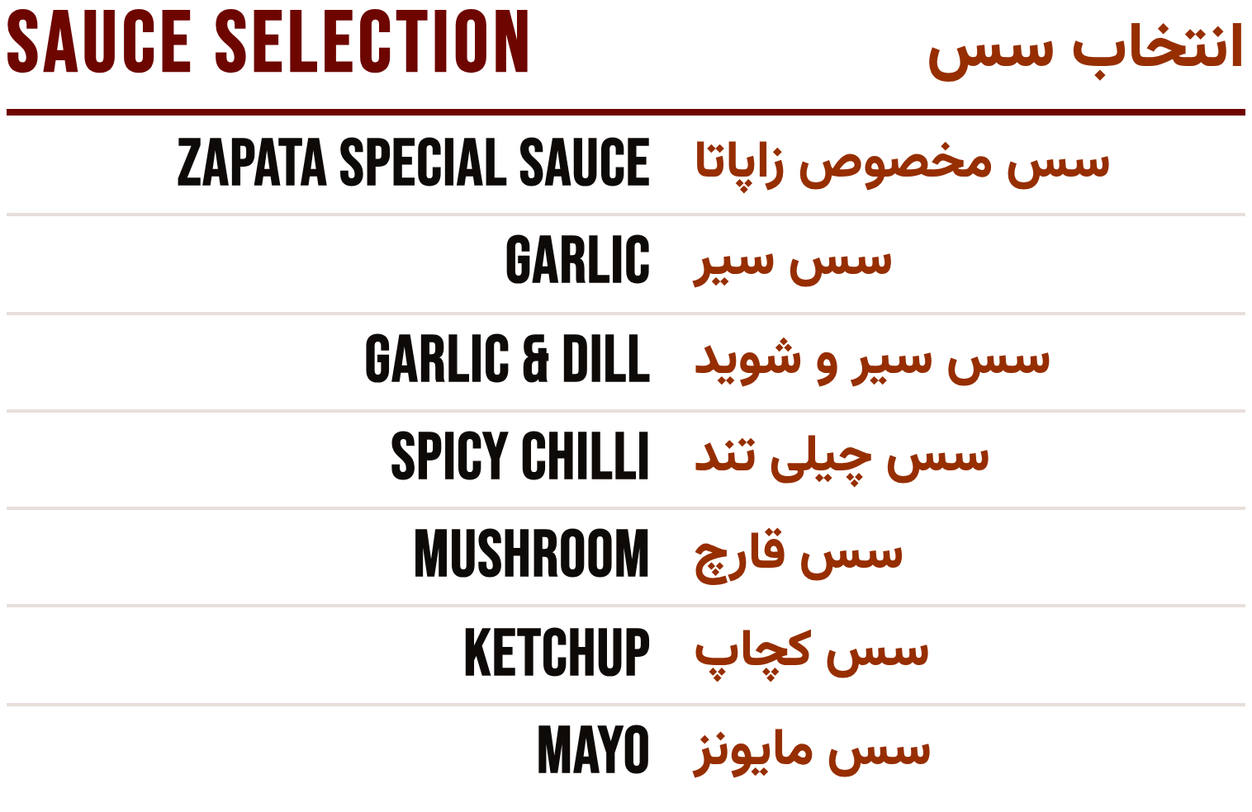
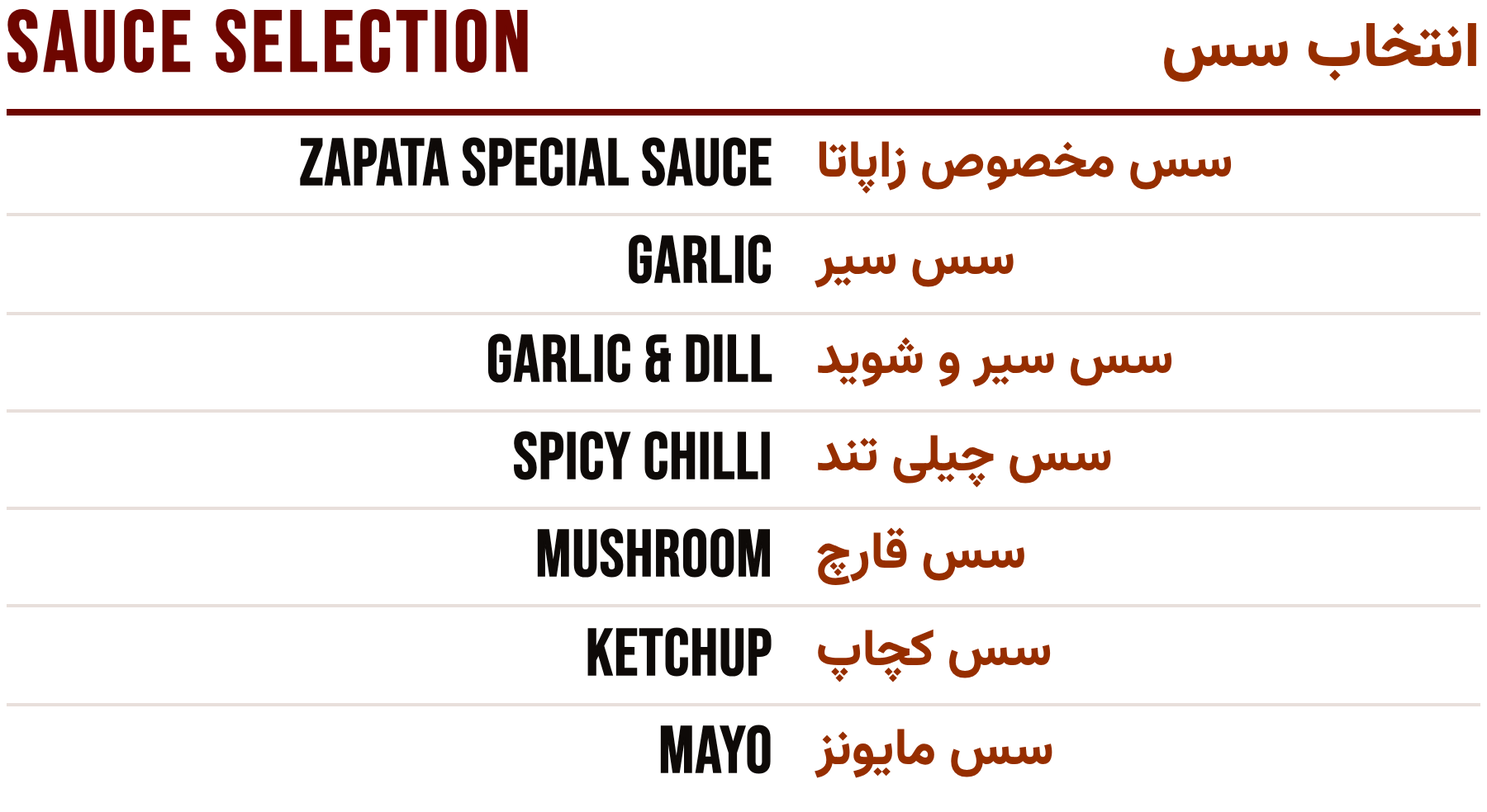
New order across the TVs; bigger heading pictures; allergy notice at the end, Persian last
Mama and Ryan, 24 Nov 2026: "the graphics are small, fix them, make them nice"; "swap the sauce
and drinks"; "sandwiches on the second line after starters"; "sauces on the right above the food
allergy"; "drinks at the end"; "the Persian of the food allergy last".

- Left TV: Starters over Sandwiches, Burgers over Drinks (text 0.768, unchanged). Right TV: Doner,
  Platters, Shawarma; Hot Dogs over Sauces, then the allergy notice at the end (text 0.945, up from
  0.923). Starters and Sauces panels drawn at their new columns' widths.
- The heading pictures fill the room from the heading line to just over their panel's top edge
  (never over menu text), with a white sticker edge and soft shadow, and pop in and out with a
  little bounce inside their gap.
- The allergy notice: English title and sentence, then the Persian title and sentence last.
- Pictures re-made; check.cjs: all 30 pass.

Claude-Session: https://claude.ai/code/session_01GCEwpkaJNHhH9V3b9SNYoX

diff --git a/site/monitor-1/deco.css b/site/monitor-1/deco.css
@@ -6,20 +6,24 @@
 .note { display: none; }
 html.half-1 .note, html.half-2 .note { position: absolute; z-index: 1; flex-direction: column; justify-content: center;
   padding: .8vh 1.6vh; color: var(--ink); text-align: left; }
-.note .nt { display: flex; justify-content: space-between; align-items: baseline; gap: 1vh; position: relative; }
+.note .nt { display: flex; justify-content: flex-start; align-items: baseline; position: relative; }
+.note .nt.fa { justify-content: flex-end; margin-top: .5vh; }
 .note .nt b { font: 800 2.1vh/1.1 "Barlow Semi Condensed", "Arial Narrow", sans-serif; color: #8a0c00; letter-spacing: .02em; white-space: nowrap; }
 .note .nt b[lang="fa"] { font: 800 1.9vh/1.2 Vazirmatn, Tahoma, sans-serif; }
 .note p { position: relative; margin: .35vh 0 0; font: 600 1.25vh/1.25 "Barlow Semi Condensed", "Arial Narrow", sans-serif; color: #3c2414; }
 .note p[lang="fa"] { font: 600 1.2vh/1.45 Vazirmatn, Tahoma, sans-serif; text-align: right; }
 
 .deco { position: absolute; z-index: 2; pointer-events: none; }
-.deco .pic { position: absolute; inset: 0; display: flex; align-items: flex-end; justify-content: center; opacity: 0; }
+.deco .pic { position: absolute; inset: 0; display: flex; align-items: flex-end; justify-content: center; opacity: 0; transform-origin: 50% 100%; }
 .deco .pic.only { opacity: 1; }
 .deco .bob { height: 100%; width: 100%; display: flex; align-items: flex-end; justify-content: center; animation: deco-bob 3s ease-in-out infinite; }
-.deco img { max-width: 100%; max-height: 100%; object-fit: contain; filter: drop-shadow(0 .35vh .4vh rgba(90, 20, 0, .35)); }
+/* a sticker: a thin white edge and a soft shadow, like the food photos on the big chains' boards */
+.deco img { max-width: 100%; max-height: 100%; object-fit: contain;
+  filter: drop-shadow(0 0 .16vh #fff) drop-shadow(0 0 .16vh #fff) drop-shadow(0 .45vh .5vh rgba(90, 20, 0, .4)); }
 .deco img.framed { border-radius: .8vh; }
-.deco svg { height: 100%; width: auto; overflow: visible; transform-origin: 50% 100%; animation: deco-flick 2s ease-in-out infinite; }
-@keyframes deco-bob { 0%, 100% { transform: translateY(0) rotate(0deg); } 50% { transform: translateY(-6%) rotate(-1.5deg); } }
+.deco svg { height: 100%; width: auto; overflow: visible; transform-origin: 50% 100%; animation: deco-flick 2s ease-in-out infinite;
+  filter: drop-shadow(0 0 .7vh rgba(255, 170, 0, .75)); }
+@keyframes deco-bob { 0%, 100% { transform: translateY(0) rotate(0deg); } 50% { transform: translateY(-3%) rotate(-1.5deg); } }
 @keyframes deco-flick { 0%, 100% { transform: scale(1, 1) skewX(0deg); } 25% { transform: scale(.96, 1.08) skewX(-3deg); }
   50% { transform: scale(1.03, .95) skewX(2deg); } 75% { transform: scale(.98, 1.05) skewX(-1deg); } }
 

diff --git a/site/monitor-1/halves.css b/site/monitor-1/halves.css
@@ -1,23 +1,22 @@
 /* Made by tools/make-sections.py: do not edit by hand. The two halves of the menu, one per shop TV, still. */
-/* half 1: text scale 0.769 */
-html.half-1 .sec-drinks { display: none; }
+/* half 1: text scale 0.768 */
+html.half-1 .sec-sauces { display: none; }
 html.half-1 .sec-doner { display: none; }
 html.half-1 .sec-platters { display: none; }
 html.half-1 .sec-shawarma { display: none; }
 html.half-1 .sec-hotdogs { display: none; }
-html.half-1 .sec-starters { left: 0.729%; top: 1.111%; width: 42.232%; height: 48.903%; }
-html.half-1 .sec-sauces { left: 0.729%; top: 51.125%; width: 42.232%; height: 36.802%; }
-html.half-1 .note { display: flex; left: 0.729%; top: 89.038%; width: 42.232%; height: 9.851%; }
-html.half-1 .sec-sandwiches { left: 43.586%; top: 1.111%; width: 55.685%; height: 47.835%; }
-html.half-1 .sec-burgers { left: 43.586%; top: 50.057%; width: 55.685%; height: 48.832%; }
-/* half 2: text scale 0.923 */
+html.half-1 .sec-starters { left: 0.729%; top: 1.111%; width: 48.958%; height: 48.867%; }
+html.half-1 .sec-sandwiches { left: 0.729%; top: 51.089%; width: 48.958%; height: 47.800%; }
+html.half-1 .sec-burgers { left: 50.313%; top: 1.111%; width: 48.958%; height: 48.902%; }
+html.half-1 .sec-drinks { left: 50.313%; top: 51.125%; width: 48.958%; height: 47.764%; }
+/* half 2: text scale 0.945 */
 html.half-2 .sec-starters { display: none; }
-html.half-2 .sec-sauces { display: none; }
+html.half-2 .sec-drinks { display: none; }
 html.half-2 .sec-sandwiches { display: none; }
 html.half-2 .sec-burgers { display: none; }
-html.half-2 .sec-doner { left: 0.729%; top: 1.111%; width: 44.296%; height: 31.927%; }
-html.half-2 .sec-platters { left: 0.729%; top: 34.149%; width: 44.296%; height: 26.032%; }
-html.half-2 .sec-shawarma { left: 0.729%; top: 61.292%; width: 44.296%; height: 26.032%; }
-html.half-2 .note { display: flex; left: 0.729%; top: 88.435%; width: 44.296%; height: 10.454%; }
-html.half-2 .sec-hotdogs { left: 45.651%; top: 1.111%; width: 53.620%; height: 38.807%; }
-html.half-2 .sec-drinks { left: 45.651%; top: 41.029%; width: 53.620%; height: 57.860%; }
+html.half-2 .sec-doner { left: 0.729%; top: 1.111%; width: 48.958%; height: 35.878%; }
+html.half-2 .sec-platters { left: 0.729%; top: 38.100%; width: 48.958%; height: 29.839%; }
+html.half-2 .sec-shawarma { left: 0.729%; top: 69.050%; width: 48.958%; height: 29.839%; }
+html.half-2 .sec-hotdogs { left: 50.313%; top: 1.111%; width: 48.958%; height: 38.696%; }
+html.half-2 .sec-sauces { left: 50.313%; top: 40.918%; width: 48.958%; height: 44.822%; }
+html.half-2 .note { display: flex; left: 50.313%; top: 86.852%; width: 48.958%; height: 12.037%; }

diff --git a/site/monitor-1/deco.js b/site/monitor-1/deco.js
@@ -22,9 +22,10 @@
   const style = document.createElement('style');
   style.textContent = [2, 3].map(k => {
     const on = 100 / k, edge = 0.5 / T * 100;
-    return `@keyframes deco-cyc-${k} { 0% { opacity: 0; transform: translateX(35%) scale(.85); } ${edge.toFixed(2)}% { opacity: 1; transform: none; }
-      ${(on - edge).toFixed(2)}% { opacity: 1; transform: none; } ${on.toFixed(2)}% { opacity: 0; transform: translateX(-35%) scale(.85); }
-      100% { opacity: 0; transform: translateX(-35%) scale(.85); } }`;
+    // pops up from the heading line with a little bounce and shrinks away again: it never leaves its gap
+    return `@keyframes deco-cyc-${k} { 0% { opacity: 0; transform: scale(.45) rotate(-8deg); } ${edge.toFixed(2)}% { opacity: 1; transform: scale(1.08) rotate(2deg); }
+      ${(edge * 1.7).toFixed(2)}% { opacity: 1; transform: none; } ${(on - edge).toFixed(2)}% { opacity: 1; transform: none; }
+      ${on.toFixed(2)}% { opacity: 0; transform: scale(.45) rotate(8deg); } 100% { opacity: 0; transform: scale(.45); } }`;
   }).join('\n');
   document.head.appendChild(style);
 
@@ -46,10 +47,16 @@
       if (!card || !card.offsetParent || !g) return;
       const b = shown(card.querySelector('img'));
       const x0 = b.left + g[0] * b.width, x1 = b.left + g[1] * b.width, y0 = b.top + g[2] * b.height, y1 = b.top + g[3] * b.height;
-      const gw = x1 - x0, hh = (y1 - y0) * 1.3;
+      // as tall as the room from the heading line up to just over the panel's top edge (a little into the empty
+      // bottom of the panel above, or the screen's top), so it never covers any menu text
+      const cr = card.getBoundingClientRect(), gap = innerHeight * 12 / 1080, pad = innerHeight * 0.0148;
+      const above = [...document.querySelectorAll('#stage .card')].some(o => o !== card && o.offsetParent && (() => { const r = o.getBoundingClientRect();
+        return r.bottom <= cr.top + 1 && r.bottom > cr.top - gap * 3 && r.left < cr.right && cr.left < r.right; })());
+      const top = above ? cr.top - gap - pad * 0.5 : Math.max(2, cr.top - gap * 0.8);
+      const gw = x1 - x0, hh = y1 - 1 - top;
       const box = document.createElement('div');
       box.className = 'deco';
-      Object.assign(box.style, { left: x0 + gw * 0.12 + 'px', width: gw * 0.76 + 'px', top: y1 - hh + 'px', height: hh + 'px' });
+      Object.assign(box.style, { left: x0 + gw * 0.07 + 'px', width: gw * 0.86 + 'px', top: top + 'px', height: hh + 'px' });
       const list = PICS[id], k = list.length;
       list.forEach((name, i) => {
         const pic = document.createElement('div');

diff --git a/site/monitor-1/layout.css b/site/monitor-1/layout.css
@@ -1,10 +1,10 @@
-/* Made by tools/make-sections.py: do not edit by hand. Full-menu TV, everything at once, text scale 0.498. */
-.sec-starters { left: 0.729%; top: 1.111%; width: 28.294%; height: 52.256%; }
-.sec-sauces { left: 0.729%; top: 54.479%; width: 28.294%; height: 44.410%; }
-.sec-sandwiches { left: 29.648%; top: 1.111%; width: 37.017%; height: 31.667%; }
-.sec-burgers { left: 29.648%; top: 33.889%; width: 37.017%; height: 32.313%; }
-.sec-drinks { left: 29.648%; top: 67.314%; width: 37.017%; height: 31.575%; }
-.sec-doner { left: 67.290%; top: 1.111%; width: 31.981%; height: 24.407%; }
-.sec-platters { left: 67.290%; top: 26.629%; width: 31.981%; height: 21.223%; }
-.sec-shawarma { left: 67.290%; top: 48.963%; width: 31.981%; height: 21.223%; }
-.sec-hotdogs { left: 67.290%; top: 71.297%; width: 31.981%; height: 27.592%; }
+/* Made by tools/make-sections.py: do not edit by hand. Full-menu TV, everything at once, text scale 0.494. */
+.sec-starters { left: 0.729%; top: 1.111%; width: 34.095%; height: 32.096%; }
+.sec-sandwiches { left: 0.729%; top: 34.318%; width: 34.095%; height: 31.410%; }
+.sec-burgers { left: 0.729%; top: 66.839%; width: 34.095%; height: 32.050%; }
+.sec-drinks { left: 35.449%; top: 1.111%; width: 34.095%; height: 51.834%; }
+.sec-sauces { left: 35.449%; top: 54.056%; width: 34.095%; height: 44.833%; }
+.sec-doner { left: 70.169%; top: 1.111%; width: 29.102%; height: 24.400%; }
+.sec-platters { left: 70.169%; top: 26.623%; width: 29.102%; height: 21.243%; }
+.sec-shawarma { left: 70.169%; top: 48.977%; width: 29.102%; height: 21.243%; }
+.sec-hotdogs { left: 70.169%; top: 71.331%; width: 29.102%; height: 27.557%; }

diff --git a/site/monitor-1/index.html b/site/monitor-1/index.html
@@ -36,10 +36,11 @@
   <div class="card sec-platters"><img src="/monitor-1/sec-platters.png" alt="Doner platters, 26 to 28"></div>
   <div class="card sec-shawarma"><img src="/monitor-1/sec-shawarma.png" alt="Shawarma, 29 to 31"></div>
   <div class="card sec-hotdogs"><img src="/monitor-1/sec-hotdogs.png" alt="Hot dogs, 32 to 36"></div>
-  <!-- the food allergy notice, in the words of the Food Standards Agency sign in the shop (Mama, 24 Nov 2026); shown on the two halves -->
+  <!-- the food allergy notice, in the words of the Food Standards Agency sign in the shop, English then Persian (Mama, 24 Nov 2026); at the end of the menu on the right TV -->
   <div class="card note">
-    <div class="nt"><b lang="en">FOOD ALLERGY OR INTOLERANCE?</b><b lang="fa" dir="rtl">حساسیت یا عدم تحمل غذایی؟</b></div>
+    <div class="nt"><b lang="en">FOOD ALLERGY OR INTOLERANCE?</b></div>
     <p lang="en">If you have a food allergy, intolerance, or coeliac disease – please speak to the staff about the ingredients in your food and drink before you order. Thank you.</p>
+    <div class="nt fa"><b lang="fa" dir="rtl">حساسیت یا عدم تحمل غذایی؟</b></div>
     <p lang="fa" dir="rtl">اگر حساسیت یا عدم تحمل غذایی یا بیماری سلیاک دارید، لطفاً پیش از سفارش دربارهٔ مواد غذا و نوشیدنی با کارکنان ما صحبت کنید. سپاسگزاریم.</p>
   </div>
 </div>

diff --git a/site/monitor-2/layout.css b/site/monitor-2/layout.css
@@ -1,6 +1,6 @@
 /* Made by tools/make-sections.py: do not edit by hand. Cycling TV, one section at a time, each as big as fits. */
-.tvslide.sec-starters { left: 4.687%; top: 1.111%; width: 62.918%; height: 97.778%; }
-.tvslide.sec-sauces { left: 0.729%; top: 8.889%; width: 70.833%; height: 82.222%; }
+.tvslide.sec-starters { left: 0.729%; top: 11.591%; width: 70.833%; height: 76.818%; }
+.tvslide.sec-sauces { left: 0.729%; top: 15.229%; width: 70.833%; height: 69.541%; }
 .tvslide.sec-sandwiches { left: 0.729%; top: 12.442%; width: 70.833%; height: 75.117%; }
 .tvslide.sec-burgers { left: 0.729%; top: 11.648%; width: 70.833%; height: 76.705%; }
 .tvslide.sec-doner { left: 0.729%; top: 24.811%; width: 70.833%; height: 50.379%; }

diff --git a/tools/make-sections.py b/tools/make-sections.py
@@ -13,13 +13,15 @@ PALETTE = {1: {'heading': (120, 10, 0), 'price': (222, 22, 10), 'persian': (168,
            2: {'heading': (110, 6, 0), 'price': (206, 14, 30), 'persian': (150, 46, 0), 'name': (14, 10, 8), 'desc': (70, 46, 34)}}
 KEY = {'STARTERS & SIDES': 'starters', 'SAUCE SELECTION': 'sauces', 'SANDWICHES': 'sandwiches', 'BURGERS': 'burgers', 'DONER BAGUETTES': 'doner',
        'DONER PLATTERS': 'platters', 'SHAWARMA': 'shawarma', 'HOT DOGS': 'hotdogs', 'DRINKS': 'drinks'}
-WIDTH = {'starters': 758, 'sauces': 758, 'drinks': 1094, 'sandwiches': 1094, 'burgers': 1094, 'doner': 900, 'platters': 900, 'shawarma': 900, 'hotdogs': 900}
+WIDTH = {'starters': 1094, 'sauces': 900, 'drinks': 1094, 'sandwiches': 1094, 'burgers': 1094, 'doner': 900, 'platters': 900, 'shawarma': 900, 'hotdogs': 900}
 DESC = {'sandwiches', 'burgers'}          # only these show ingredients on the TVs, as on the old boards
-STATIC = [['starters', 'sauces'], ['sandwiches', 'burgers', 'drinks'], ['doner', 'platters', 'shawarma', 'hotdogs']]
-# The halves, in reading order: left TV items 1-21 and the sauces, right TV 22-43 (columns, top to bottom).
-HALVES = {1: [['starters', 'sauces'], ['sandwiches', 'burgers']], 2: [['doner', 'platters', 'shawarma'], ['hotdogs', 'drinks']]}
-# The food allergy notice (Mama, 24 Nov 2026: "at the bottom of both, small, so the menu doesn't shrink") sits in the
-# first column's spare space on each TV: that column's panels don't stretch, the notice takes what is left.
+STATIC = [['starters', 'sandwiches', 'burgers'], ['drinks', 'sauces'], ['doner', 'platters', 'shawarma', 'hotdogs']]
+# The halves (Mama and Ryan, 24 Nov 2026: "swap the sauce and drinks", "sandwiches on the second line after starters",
+# "sauces on the right above the food allergy", "drinks at the end"): columns, top to bottom.
+HALVES = {1: [['starters', 'sandwiches'], ['burgers', 'drinks']], 2: [['doner', 'platters', 'shawarma'], ['hotdogs', 'sauces']]}
+# The food allergy notice at the end of the menu: half 2, under its last column, at least NOTE_MIN px tall at 1080
+# (the menu is sized to leave that room; that column's panels don't stretch, the notice takes what is left).
+NOTE = {2: 1}; NOTE_MIN = 130.0
 SIZES = pathlib.Path('tools/.sections.json')
 
 def row(x, key):
@@ -93,7 +95,9 @@ def halves():
         shown = [n for c in cols for n in c]
         fixed_w = 2 * M + GAP * (len(cols) - 1) + 2 * PAD * len(cols)
         s = (W - fixed_w) / sum(max(size[n][0] for n in c) for c in cols)
-        for c in cols: s = min(s, (BOT - TOP - GAP * (len(c) - 1) - 2 * PAD * len(c)) / sum(size[n][1] for n in c))
+        for k, c in enumerate(cols):
+            room = (NOTE_MIN + GAP) if NOTE.get(half) == k else 0
+            s = min(s, (BOT - TOP - room - GAP * (len(c) - 1) - 2 * PAD * len(c)) / sum(size[n][1] for n in c))
         extra_w = (W - fixed_w - s * sum(max(size[n][0] for n in c) for c in cols)) / len(cols)
         css.append(f'/* half {half}: text scale {s:.3f} */')
         css += [f'html.half-{half} .sec-{n} {{ display: none; }}' for n in WIDTH if n not in shown]
@@ -101,12 +105,13 @@ def halves():
         for k, c in enumerate(cols):
             cw = max(size[n][0] for n in c) * s + 2 * PAD + extra_w
             used = sum(size[n][1] * s + 2 * PAD for n in c) + GAP * (len(c) - 1)
-            grow = 0 if k == 0 else (BOT - TOP - used) / len(c); y = TOP
+            note = NOTE.get(half) == k
+            grow = 0 if note else (BOT - TOP - used) / len(c); y = TOP
             for n in c:
                 h = size[n][1] * s + 2 * PAD + grow
                 css.append(f'html.half-{half} .sec-{n} {{ left: {pct(x, W)}; top: {pct(y, H)}; width: {pct(cw, W)}; height: {pct(h, H)}; }}')
                 y += h + GAP
-            if k == 0:   # the allergy notice in what is left at the bottom of the first column
+            if note:   # the allergy notice in what is left at the bottom of this column
                 css.append(f'html.half-{half} .note {{ display: flex; left: {pct(x, W)}; top: {pct(y, H)}; width: {pct(cw, W)}; height: {pct(BOT - y, H)}; }}')
             x += cw + GAP
         out.append(f'half {half} text scale {s:.3f}')

diff --git a/CLAUDE.md b/CLAUDE.md
@@ -3,7 +3,7 @@
 Read this first, then `HANDOFF.md`. This repo is the TV menu website for **Ajdar Zapata**, a sandwich shop at 864 High Road, London N12 9RH. It is separate from Ryan's LAIFE project: none of LAIFE's rules, data or files belong here.
 
 ## What it is
-- Two horizontal TVs in the shop show the menu full screen, nonstop, no login: **ajdarzapata.co.uk/tv1** (left TV: items 1-21 and the sauces) and **ajdarzapata.co.uk/tv2** (right TV: items 22-43, drinks each on their own row 37-43), both yellow so the pair reads as one board, the join between the screens falling between columns (24 Nov 2026: "one big one ... conscious of the seam"). **Half the menu on each TV, always still** (24 Nov 2026, in Persian: "منو دو قسمت بشه یه قسمت تو یه مونیتور قسمت دیگه تو مونیتور دوم و ثابت باشه همیشه", the menu in two parts, one on each monitor, always fixed). Both are `site/tv/index.html`, which shows a still picture of `/monitor-1/?half=1` or `?half=2` (layout in `site/monitor-1/halves.css`). The slideshow, hero slides and Santa's Robbery poster are no longer on the TVs; `/monitor-1/` (all at once) and `/monitor-2/` (the slideshow) are kept for previews. A TV that has opened its address once also shows it on the plain ajdarzapata.co.uk; everyone else there gets the phone menu (`/menu/`).
+- Two horizontal TVs in the shop show the menu full screen, nonstop, no login: **ajdarzapata.co.uk/tv1** (left TV: Starters over Sandwiches, Burgers over Drinks) and **ajdarzapata.co.uk/tv2** (right TV: Doner, Platters, Shawarma; Hot Dogs over Sauces, then the allergy notice at the end) (Mama and Ryan, 24 Nov 2026: "swap the sauce and drinks", "sandwiches second after starters", "drinks at the end"), both yellow so the pair reads as one board, the join between the screens falling between columns (24 Nov 2026: "one big one ... conscious of the seam"). **Half the menu on each TV, always still** (24 Nov 2026, in Persian: "منو دو قسمت بشه یه قسمت تو یه مونیتور قسمت دیگه تو مونیتور دوم و ثابت باشه همیشه", the menu in two parts, one on each monitor, always fixed). Both are `site/tv/index.html`, which shows a still picture of `/monitor-1/?half=1` or `?half=2` (layout in `site/monitor-1/halves.css`). The slideshow, hero slides and Santa's Robbery poster are no longer on the TVs; `/monitor-1/` (all at once) and `/monitor-2/` (the slideshow) are kept for previews. A TV that has opened its address once also shows it on the plain ajdarzapata.co.uk; everyone else there gets the phone menu (`/menu/`).
 - See The two TVs below for the current layout. Nothing may cover menu text: `tools/check.cjs` checks that nothing overlaps a menu panel.
 - **Netlify is just the host** (Ryan, 24 Nov 2026: "make it so Netlify's just the host"): it serves the files in `site/` and nothing runs on it. No functions, edge functions, Blobs or build step (the TV lock function `/api/screen` and `tv-lock.js` were removed 24 Nov). Netlify's injected badge script (`/.netlify/scripts/hud`) is refused on the TV page (Content-Security-Policy) and gives up on the other pages (an `#nl-badge-frame` element). Don't add Netlify features back without Ryan's yes. **One temporary exception** (Ryan, 24 Nov 2026: "just do it now ... guess"): `netlify/edge-functions/tv-old.js` splits the two TVs still running the 16:16 page by when they ask for `show.json` (no remote needed); remove it once no TV asks for `show.json` without `p=` (Netlify's log).
 - **Hosting:** Netlify (`netlify.toml` → serves `site/`), linked to this repo (branch `main`) since 2 Nov: **every push to `main` goes live** within about a minute, and the TVs swap in the new pictures within 2 minutes after that. Check with the Netlify connector (`get-project` → currentDeploy) after a push. So a push is a change in the shop: check before you push.
@@ -14,12 +14,12 @@ Read this first, then `HANDOFF.md`. This repo is the TV menu website for **Ajdar
 - **The TVs' browser** (Netlify log, 24 Nov 2026): `Mozilla/5.0 (Linux; Android 9; t963_ak301 Build/PPR1.180610.011; wv) ... Chrome/97.0.4692.87`, an Android 9 WebView on a `t963_ak301` board; both TVs identical, same internet connection, so the site can't tell them apart by itself. Their start page is the plain address and on 24 Nov they had no memory of the old lock.
 - **A shop TV is never sent to the phone menu** (24 Nov 2026): a device with that browser (or any non-phone Android WebView) that hasn't been told which TV it is shows the whole menu, still (`site/tv/all.*.jpg`, a picture of `/monitor-1/`), with the keep-awake video. Or no remote at all: each TV reports a private ID (`id=` in its `/tv/ping.txt` reports, kept as `az-screen-id`) and `site/tv/show.json` `"screens": {"<id>": 1 or 2}` gives it its half within 2 minutes (set by Claude from Netlify's log; swap the numbers if the sides are wrong). Pressing **1** on its remote makes it the left TV, **2** the right TV, **0** forgets; remembered like `/tv1`, `/tv2`.
 - **Which TV is which: by address, no server** (24 Nov 2026). `/tv1` = left TV, `/tv2` = right TV; set each as its TV's start page. The page remembers it (browser storage and an `az_tv` cookie, the same cookie the old lock set), so the plain address works on that TV too. Phones never remember; `?preview` only looks; `?screen=0` makes a device forget. Anyone else on the plain address gets `/menu/`.
-- **Moving bits** (Mama and Ryan, 24 Nov 2026: "in the empty space of each heading a picture that comes and goes", "integrate the Christmas stuff, not loud"): `site/monitor-1/deco.js` + `deco.css` put small real food photos (or the flame where there's no photo) in the empty middle of each heading, cycling every 12 s, and in the Christmas look a string of lights along the top, snow on the panel tops and a few twinkles. The menu itself never moves or shrinks. `tools/tv-stills.cjs` films each half for 12 s at 8 frames a second and `tools/webp-anim.py` makes it a looping animated WebP, so the TVs play it in a plain `<img>` (`tv1`/`tv2` plain, `tv1x`/`tv2x` Christmas, picked by date). No drink, fries or hot dog photo yet: send one and it goes in.
+- **Moving bits** (Mama and Ryan, 24 Nov 2026: "in the empty space of each heading a picture that comes and goes", "integrate the Christmas stuff, not loud"): `site/monitor-1/deco.js` + `deco.css` put small real food photos (or the flame where there's no photo) in the empty middle of each heading, as big as the room from the heading line to just over the panel's top edge allows, with a white sticker edge, popping in and out every 12 s, and in the Christmas look a string of lights along the top, snow on the panel tops and a few twinkles. The menu itself never moves or shrinks. `tools/tv-stills.cjs` films each half for 12 s at 8 frames a second and `tools/webp-anim.py` makes it a looping animated WebP, so the TVs play it in a plain `<img>` (`tv1`/`tv2` plain, `tv1x`/`tv2x` Christmas, picked by date). No drink, fries or hot dog photo yet: send one and it goes in.
 - **The TV page** (`site/tv/index.html`): one ready-made looping picture per TV (`site/tv/tv1*.webp`, `tv2*.webp`, made by `node tools/tv-stills.cjs`, about 5 minutes), a tiny silent looping video under the picture (`awake.webm`/`awake.mp4`), reads `site/tv/show.json` every 30 seconds and swaps in a new picture; **refreshes itself** when the page itself changes (Ryan, 24 Nov 2026: "make it refresh automatically": `show.json` carries the page's version, stamped by `node tools/tv-page.cjs`, which `tv-stills.cjs` also runs; at most once in 10 minutes, so it can't loop). Once a TV knows which it is, its address becomes `/tv1` or `/tv2` in place, so any reload keeps its half without needing memory. Picture names carry their fingerprint, so no TV can keep an old copy. **After any menu or design change run `node tools/tv-stills.cjs`**: `tools/check.cjs` fails until the pictures match the pages (and after the season changes).
 - **Why the TVs kept "kicking it out"** (17-24 Nov): the TVs' browser left the page within a minute every time, even with every animation off, while USB videos play all day. Best explanation: the TV sleeps or starts its screensaver about a minute after the last button press unless a video is playing, and the web wake lock doesn't work in that browser. In Chromium 97 a playing muted video keeps the screen on if the page is visible and any of the video is on screen (`video_wake_lock.cc`), so the TV page plays one. Not yet proven on the real TVs. The page reports every opening to `/tv/ping.txt?m=&o=&s=&ev=&v=` (m monitor, o opened, s seconds open, ev hidden/bye/frozen/shown, v video state); read them in Netlify's request log (kept 24 hours) with the Netlify connector.
 - **Left TV = Monitor 1, right TV = Monitor 2** (confirmed from Ryan's photo, 2 Nov). Backgrounds are marbled like the shop's chair covers (`tools/make-marble.py` → `site/marble-yellow.jpg` left, `site/marble-orange.jpg` right), with maths flames rising behind the glass (`site/flame.js`: two cosine waves narrowing to a tilted tip). The menu sits on bright glass panels with a golden (left) or orange (right) rim.
 - **Text colours** (like the big chains' boards): dark-red headings, bright red prices and number tags, black item names, brown-red Persian, dark brown descriptions, all thickened a pixel. Set in `PALETTE` in `tools/build-walls.py`.
-- **The food allergy notice is on both TVs** (Mama via Ryan, 24 Nov 2026: "at the bottom of both, small, so the menu doesn't shrink"; "the sentence of the sign"): the Food Standards Agency sign's words ("Food Allergy or Intolerance? If you have a food allergy, intolerance, or coeliac disease – please speak to the staff about the ingredients in your food and drink before you order. Thank you.") plus Persian (Claude's translation, for Mama to check), in the spare space at the bottom of each TV's first column (`.note` in `site/monitor-1/index.html`, placed by `halves.css`; that column's panels don't stretch, so the menu keeps its size). No address, no phone number.
+- **The food allergy notice is at the end of the menu** (Mama via Ryan, 24 Nov 2026): the Food Standards Agency sign's words ("Food Allergy or Intolerance? If you have a food allergy, intolerance, or coeliac disease – please speak to the staff about the ingredients in your food and drink before you order. Thank you."), English first and the Persian (Claude's translation, for Mama to check) last, under Sauces at the bottom right of the right TV (`.note` in `site/monitor-1/index.html`; `NOTE`/`NOTE_MIN` in `tools/make-sections.py` leave it room, so the menu is sized around it). No address, no phone number.
 - **Ryan rejected Fable's "final polish" (PR #7, 16 Nov 2026): "I fucking hate what Fable did... that was actually terrible. Go back to the one that Opus did."** It was reverted before it went live. Don't bring back its changes (offline service worker `sw.js`, the guarded-reload/watchdog rewrite, the trimmed hero holds and 40% loop cap, the re-spaced left-TV columns, the softer glint) unless Ryan asks for them himself. Build on the Opus version.
 - **Right TV's food column:** the one logo at the top, then real food photos (Ryan's clean studio shots, cut out by `tools/cut-photos.py` from `menu/photos/`) for sandwiches and burgers; sections without a photo show one flame emblem. Never use the sent photos that carry other companies' watermarks ("Snapp! Food" and others).
 - **Coming soon slide** on the right TV, with the flame artwork from Ryan's A6 flyer. Add a cut-out food photo as `.soon-photo`'s `src` (remove `hidden`).
